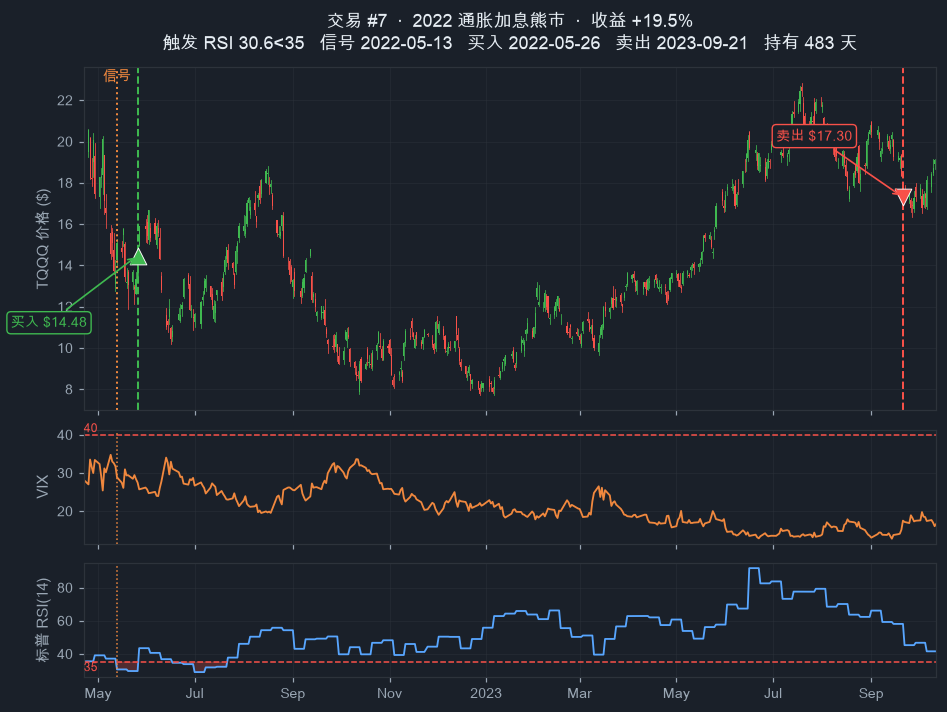
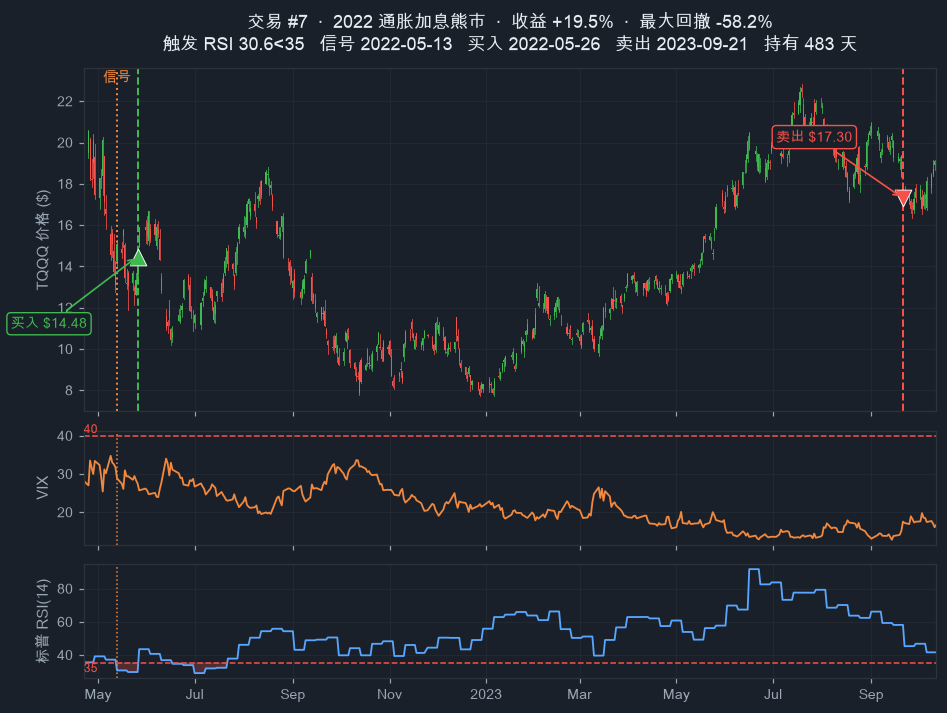
Per-trade charts: add max drawdown to title
Each section-5 chart title now shows the worst peak-to-trough TQQQ decline
experienced during the hold (e.g. #7: +19.5% return but -58.2% max DD).

diff --git a/src/plot_trades.py b/src/plot_trades.py
@@ -79,6 +79,10 @@ def main():
         exit_d = pd.Timestamp(t["Exit_Date"])
         is_open = t.get("Open_At_End") is True
 
+        # max drawdown of TQQQ (close) experienced while holding the trade
+        hold_close = tqqq["Close"].loc[ent:exit_d]
+        max_dd = float((hold_close / hold_close.cummax() - 1).min() * 100) if len(hold_close) else 0.0
+
         if is_open:
             # show the trailing 1 year of data, latest date flush to the right border
             end = last_date
@@ -141,7 +145,7 @@ def main():
         panic = PANIC.get(num)
         head = f"交易 #{num}" + (f"  ·  {panic}" if panic else "")
         ax1.set_title(
-            f"{head}  ·  收益 {t['Return_%']:+.1f}%{status}\n"
+            f"{head}  ·  收益 {t['Return_%']:+.1f}%  ·  最大回撤 {max_dd:.1f}%{status}\n"
             f"触发 {t['Trigger']}   信号 {sig:%Y-%m-%d}   买入 {ent:%Y-%m-%d}   "
             f"卖出 {exit_lbl}   持有 {int(t['Hold_Days'])} 天",
             color=INK, fontsize=12, pad=12)
